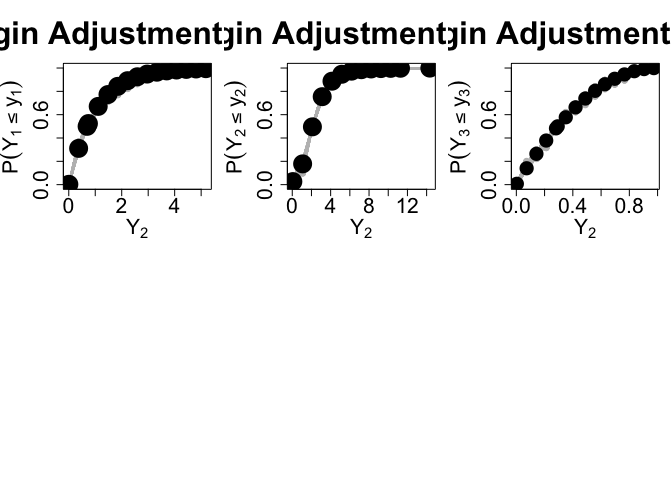
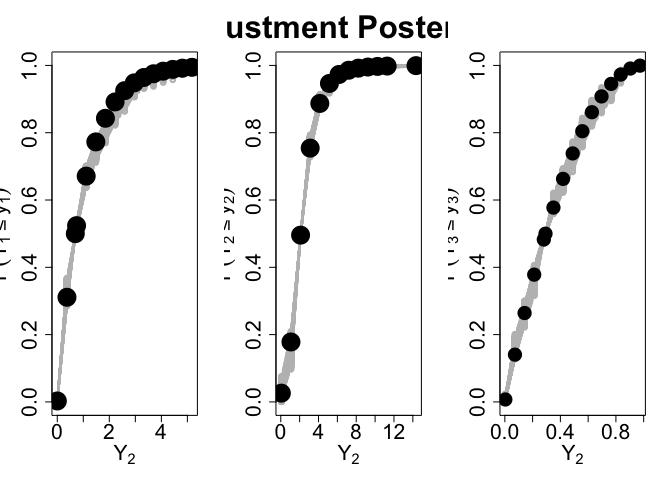
read me

diff --git a/README.md b/README.md
@@ -53,7 +53,7 @@ $\boldsymbol Y_{ij}$ for $R_{ij}>0$.
   print("Missingness in Each Y_j:")
 #> [1] "Missingness in Each Y_j:"
   print(colMeans(R))
-#> [1] 0.489 0.498 0.502 0.476 0.475
+#> [1] 0.525 0.519 0.479 0.467 0.524
 
   # Now we'll create the study variables. Here we use gamma, t, and beta marginals 
   
@@ -90,27 +90,27 @@ $\boldsymbol Y_{ij}$ for $R_{ij}>0$.
       print("Summary of (Y^obs, R)")
 #> [1] "Summary of (Y^obs, R)"
       print(summary(Y_obs))
-#>       Y_j              Y_j              Y_j              Y_j        
-#>  Min.   :0.0028   Min.   : 0.061   Min.   :0.0036   Min.   :0.0022  
-#>  1st Qu.:0.2355   1st Qu.: 1.990   1st Qu.:0.1855   1st Qu.:0.2116  
-#>  Median :0.6177   Median : 2.713   Median :0.3457   Median :0.5157  
-#>  Mean   :0.9445   Mean   : 3.127   Mean   :0.3790   Mean   :0.8034  
-#>  3rd Qu.:1.2912   3rd Qu.: 3.783   3rd Qu.:0.5624   3rd Qu.:1.0959  
-#>  Max.   :5.1777   Max.   :14.336   Max.   :0.9735   Max.   :5.6747  
-#>  NA's   :489      NA's   :498      NA's   :502      NA's   :476     
+#>       Y_j               Y_j              Y_j              Y_j        
+#>  Min.   : 0.0021   Min.   :-1.428   Min.   :0.0003   Min.   :0.0007  
+#>  1st Qu.: 0.4076   1st Qu.: 1.159   1st Qu.:0.0959   1st Qu.:0.2590  
+#>  Median : 0.9033   Median : 1.810   Median :0.2451   Median :0.6428  
+#>  Mean   : 1.2604   Mean   : 2.044   Mean   :0.2909   Mean   :0.9537  
+#>  3rd Qu.: 1.7248   3rd Qu.: 2.630   3rd Qu.:0.4361   3rd Qu.:1.3472  
+#>  Max.   :11.7151   Max.   :12.079   Max.   :0.9075   Max.   :6.4712  
+#>  NA's   :525       NA's   :519      NA's   :479      NA's   :467     
 #>       Y_j                V6              V7              V8       
-#>  Min.   :-0.5853   Min.   :0.000   Min.   :0.000   Min.   :0.000  
-#>  1st Qu.: 1.6050   1st Qu.:0.000   1st Qu.:0.000   1st Qu.:0.000  
-#>  Median : 2.5175   Median :0.000   Median :0.000   Median :1.000  
-#>  Mean   : 2.7827   Mean   :0.489   Mean   :0.498   Mean   :0.502  
-#>  3rd Qu.: 3.5634   3rd Qu.:1.000   3rd Qu.:1.000   3rd Qu.:1.000  
-#>  Max.   :15.0314   Max.   :1.000   Max.   :1.000   Max.   :1.000  
-#>  NA's   :475                                                      
+#>  Min.   : 0.2557   Min.   :0.000   Min.   :0.000   Min.   :0.000  
+#>  1st Qu.: 1.9194   1st Qu.:0.000   1st Qu.:0.000   1st Qu.:0.000  
+#>  Median : 2.6357   Median :1.000   Median :1.000   Median :0.000  
+#>  Mean   : 3.0118   Mean   :0.525   Mean   :0.519   Mean   :0.479  
+#>  3rd Qu.: 3.7102   3rd Qu.:1.000   3rd Qu.:1.000   3rd Qu.:1.000  
+#>  Max.   :11.5522   Max.   :1.000   Max.   :1.000   Max.   :1.000  
+#>  NA's   :524                                                      
 #>        V9             V10       
 #>  Min.   :0.000   Min.   :0.000  
 #>  1st Qu.:0.000   1st Qu.:0.000  
-#>  Median :0.000   Median :0.000  
-#>  Mean   :0.476   Mean   :0.475  
+#>  Median :0.000   Median :1.000  
+#>  Mean   :0.467   Mean   :0.524  
 #>  3rd Qu.:1.000   3rd Qu.:1.000  
 #>  Max.   :1.000   Max.   :1.000  
 #> 
@@ -127,15 +127,16 @@ information specified by the user:
   have $\texttt{ncolY} = 5$:
 - $\texttt{ncolR}$: The number of study variables modeled as
   non-ignorable. In this example we have $\texttt{ncolR} = 5$
-- $\texttt{aux_quantiles}$: auxiliary quantiles assumed known for each
-  study variable. This is a list of length $\texttt{ncolY}$, where the
-  $\texttt{aux_quantiles[[j]]} = (0,\{\tau_{k_{j}}\}_{k=1}^{q},\dots,1\}$,
+- $aux_quantiles$: auxiliary quantiles assumed known for each study
+  variable. This is a list of length $\texttt{ncolY}$, where the
+  aux_quantiles\[\[j\]\] = $(0,\{\tau_{k_{j}}\}_{k=1}^{q},\dots,1\}$,
   i.e. there are $q_{j}+2$ auxiliary quantiles assumed known for each
   variable. If $\texttt{aux_quantiles[[j]]}$ is null, empirical deciles
   will be used. Note the quantiles for each variable do not need to be
   unique.
-- $\texttt{aux_infos}$: This is a list of length $\texttt{ncolY}$ where
-  $\texttt{aux_infos[[j]]} = (F_{j}^{-1}(0),\{F_{j}^{-1}(\tau_{k_{j}})\}_{k=1}^{q},\dots,F_{j}^{-1}(1)\}$
+- aux_infos: This is a list of length $\texttt{ncolY}$ where
+  aux_infos\[\[j\]\] =
+  $(F_{j}^{-1}(0),\{F_{j}^{-1}(\tau_{k_{j}})\}_{k=1}^{q},\dots,F_{j}^{-1}(1)\}$
 - $\texttt{MA}$: vector of length ncolY indicating whether or not to
   compute the margin adjustment. This is strongly recommended for all
   levels of auxiliary information, and especially when auxiliary
@@ -211,8 +212,7 @@ legend("topright", c("Imputed", "Truth", "Observed"), col= c("blue", "black", "g
 Analyze margin Adjustment
 
 ``` r
-par(mfrow = c(2,3),
-    mar = c(4,5,5,1))
+par(mfrow = c(1,3))
 # 
 
 
@@ -221,7 +221,7 @@ par(mfrow = c(2,3),
     if(j == 2){
     plot(imps$x_ma[[j]],imps$MAs[[j]][1,], type = 'n', xlab = expression(Y[2]),
          ylab = expression(paste(P(Y[2]<=y[2]))),
-         main =paste("Margin Adjustment for Y_2"),
+         main =paste("Margin Adjustment Posterior Samples"),
          cex.main = 3,
          cex.axis = 2,
          cex.lab = 2,
@@ -231,7 +231,7 @@ par(mfrow = c(2,3),
     }else if(j==1){
       plot(imps$x_ma[[j]],imps$MAs[[j]][1,], type = 'n', xlab = expression(Y[2]),
          ylab = expression(paste(P(Y[1]<=y[1]))),
-         main =paste("Margin Adjustment for Y_2"),
+         main =paste(""),
          cex.main = 3,
          cex.axis = 2,
          cex.lab = 2,
@@ -241,7 +241,7 @@ par(mfrow = c(2,3),
     }else{
       plot(imps$x_ma[[j]],imps$MAs[[j]][1,], type = 'n', xlab = expression(Y[2]),
          ylab = expression(paste(P(Y[3]<=y[3]))),
-         main =paste("Margin Adjustment for Y_2"),
+         main =paste(""),
          cex.main = 3,
          cex.axis = 2,
          cex.lab = 2,
